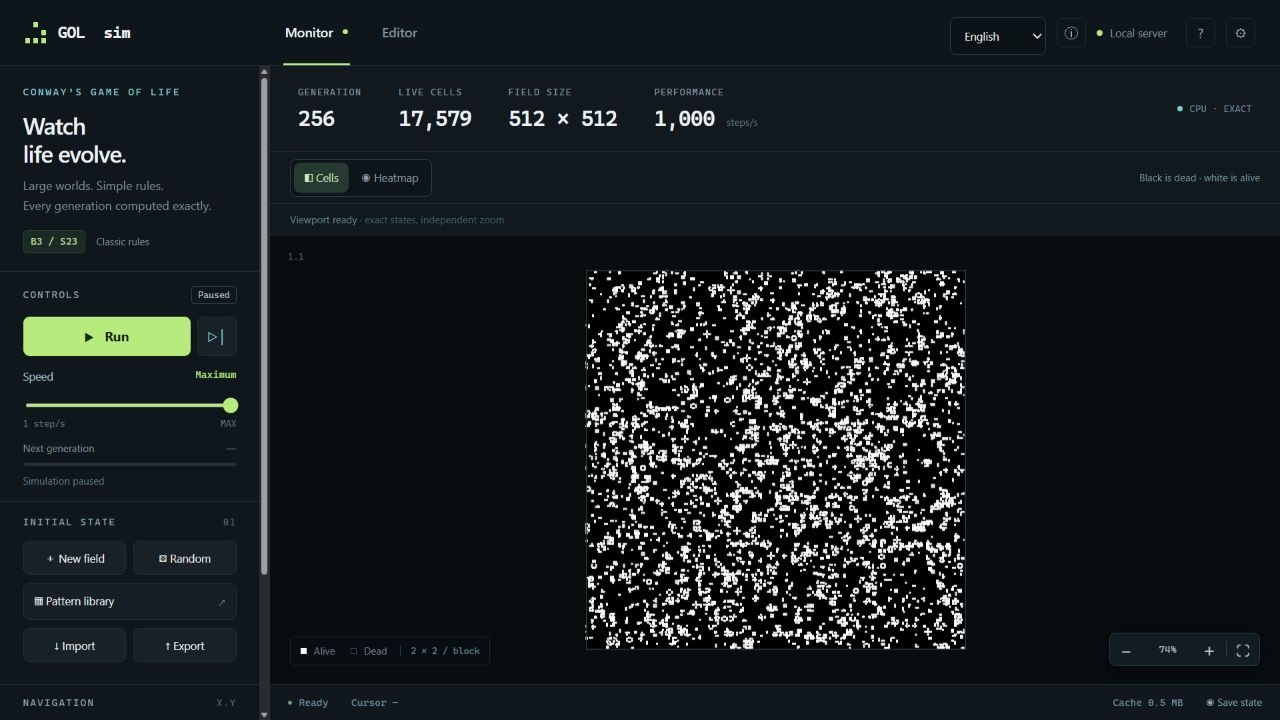
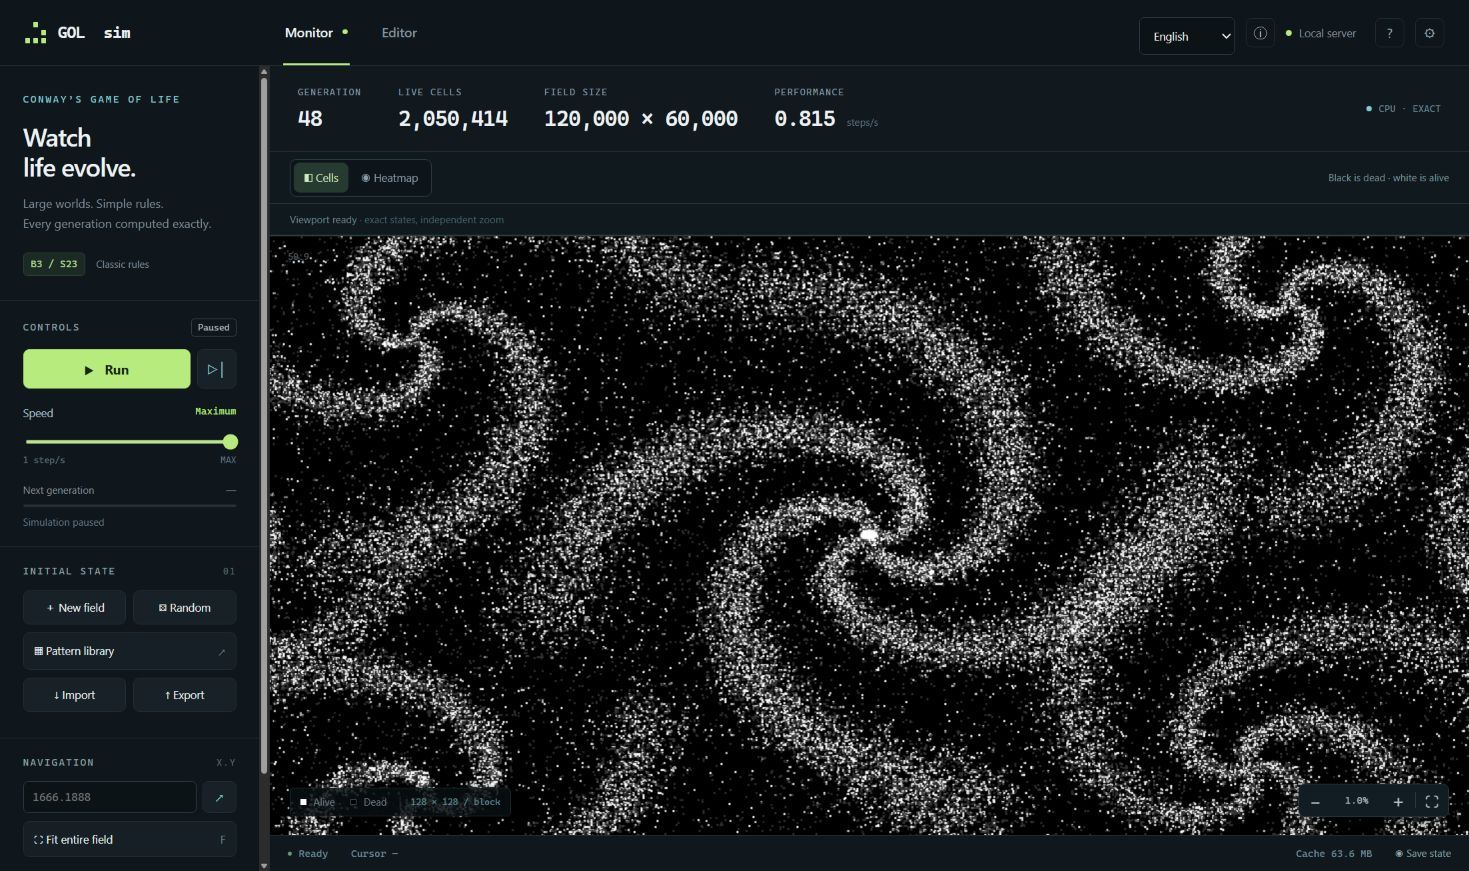
Show a 120,000 by 60,000 Life field across the monitor workspace

diff --git a/README.md b/README.md
@@ -17,9 +17,9 @@ A parallel Rust engine, a Python server, and a browser workspace for watching wo
 
 </div>
 
-![GOL sim browser monitor showing a large Conway’s Game of Life world](docs/images/monitor.jpg)
+![GOL sim monitor showing spiral colonies across a 120,000 × 60,000 Conway’s Game of Life field](docs/images/monitor.jpg)
 
-*Exact cells up close. Population density and activity at a distance. One consistent world at every zoom level.*
+*Generation 48 on a 120,000 × 60,000 field with 2,050,414 live cells. The seeds were placed in spiral arms. At this zoom each gray sample shows the population of a 128 × 128 block.*
 
 GOL sim is designed for large sparse worlds, with configurable resource budgets for dense workloads. Empty space costs little; active regions are computed in parallel; repeated local evolution can reuse verified results. **Every generation follows classic B3/S23, with all cells updated simultaneously from the previous state.**
 
